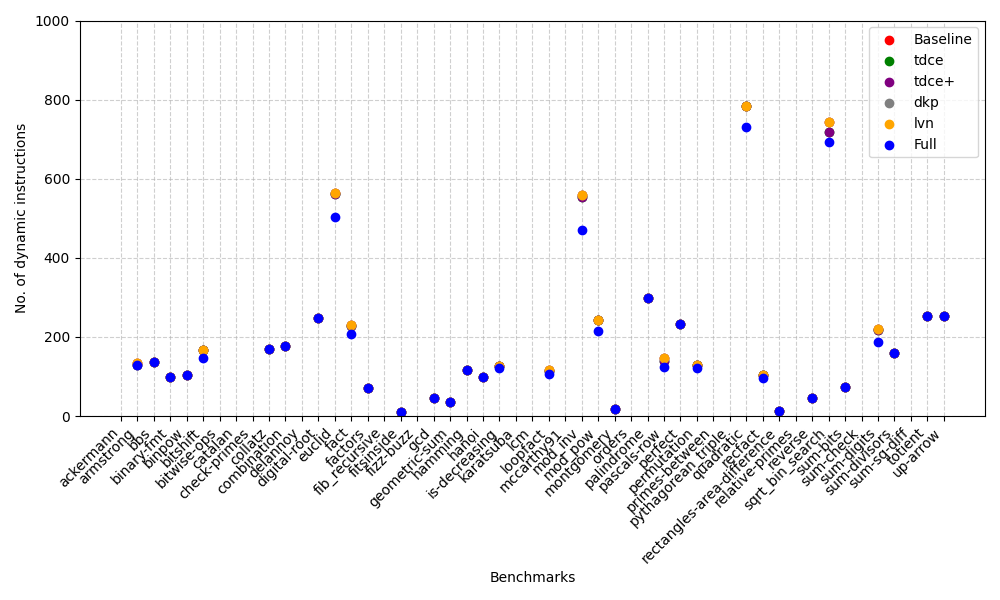
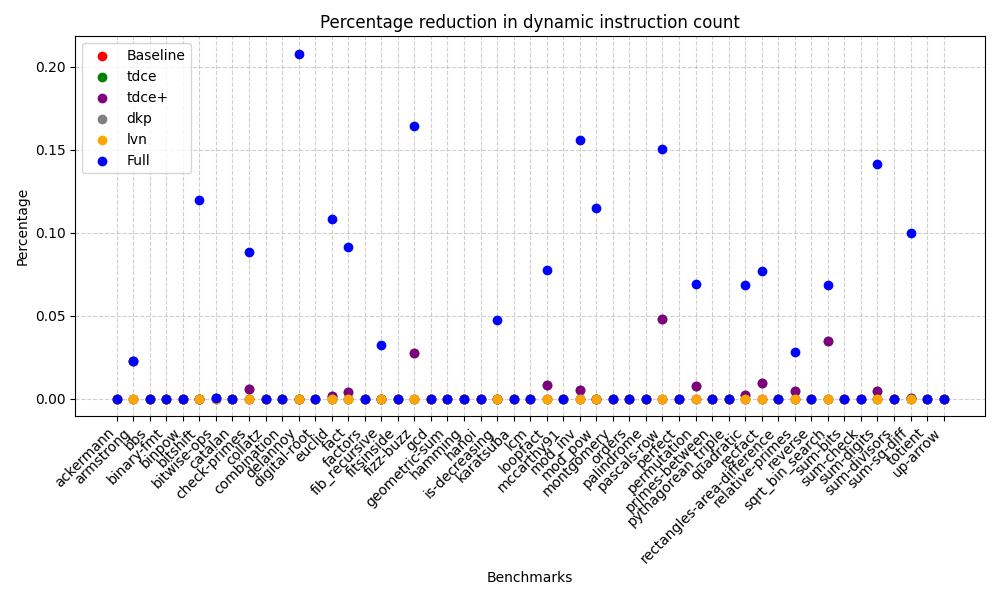
Update script to plot % reduction in dyn instr count

diff --git a/analyze_benchmarks.py b/analyze_benchmarks.py
@@ -2,6 +2,10 @@
 
 import matplotlib.pyplot as plt
 
+def compute_percentage(opt, baseline):
+    result = abs(baseline - opt) / baseline
+    return result
+
 if __name__ == '__main__':
 
     data = []
@@ -31,12 +35,12 @@ if __name__ == '__main__':
         lvn_result = next(result for (bench_name, run, result) in data if bench_name == benchmark and run == "lvn")
         full_result = next(result for (bench_name, run, result) in data if bench_name == benchmark and run == "full")
         
-        results_baseline.append(baseline_result)
-        results_full.append(full_result)
-        results_tdce.append(tdce_result)
-        results_tdce_plus.append(tdce_plus_result)
-        results_dkp.append(dkp_result)
-        results_lvn.append(lvn_result)
+        # results_baseline.append(compute_percentage(baseline_result, baseline_result))
+        results_full.append(compute_percentage(full_result, baseline_result))
+        results_tdce.append(compute_percentage(tdce_result, baseline_result))
+        results_tdce_plus.append(compute_percentage(tdce_plus_result, baseline_result))
+        results_dkp.append(compute_percentage(dkp_result, baseline_result))
+        results_lvn.append(compute_percentage(lvn_result, baseline_result))
 
 
         if full_result < baseline_result: 
@@ -49,7 +53,7 @@ if __name__ == '__main__':
     plt.figure(figsize=(10, 6))
 
     # Plot baseline
-    plt.scatter(x, results_baseline, color="red", label="Baseline", zorder=2)
+    # plt.scatter(x, results_baseline, color="red", label="baseline", zorder=2)
     
     plt.scatter(x, results_tdce, color="green", label="tdce", zorder=2)
 
@@ -60,15 +64,14 @@ if __name__ == '__main__':
     plt.scatter(x, results_lvn, color="orange", label="lvn", zorder=2)
     
     # Plot full
-    plt.scatter(x, results_full, color="blue", label="Full", zorder=2)
+    plt.scatter(x, results_full, color="blue", label="full", zorder=2)
 
+    plt.title("Percentage reduction in dynamic instruction count")
     plt.xticks(x, benchmarks, rotation=45, ha="right")
     plt.xlabel("Benchmarks")
-    plt.ylabel("No. of dynamic instructions")
+    plt.ylabel("Percentage")
     plt.legend()
     plt.grid(zorder=1, linestyle="--", alpha=0.6)
-
-    plt.ylim(0, 1000)
 
     plt.tight_layout()
     plt.savefig('plot.png')
